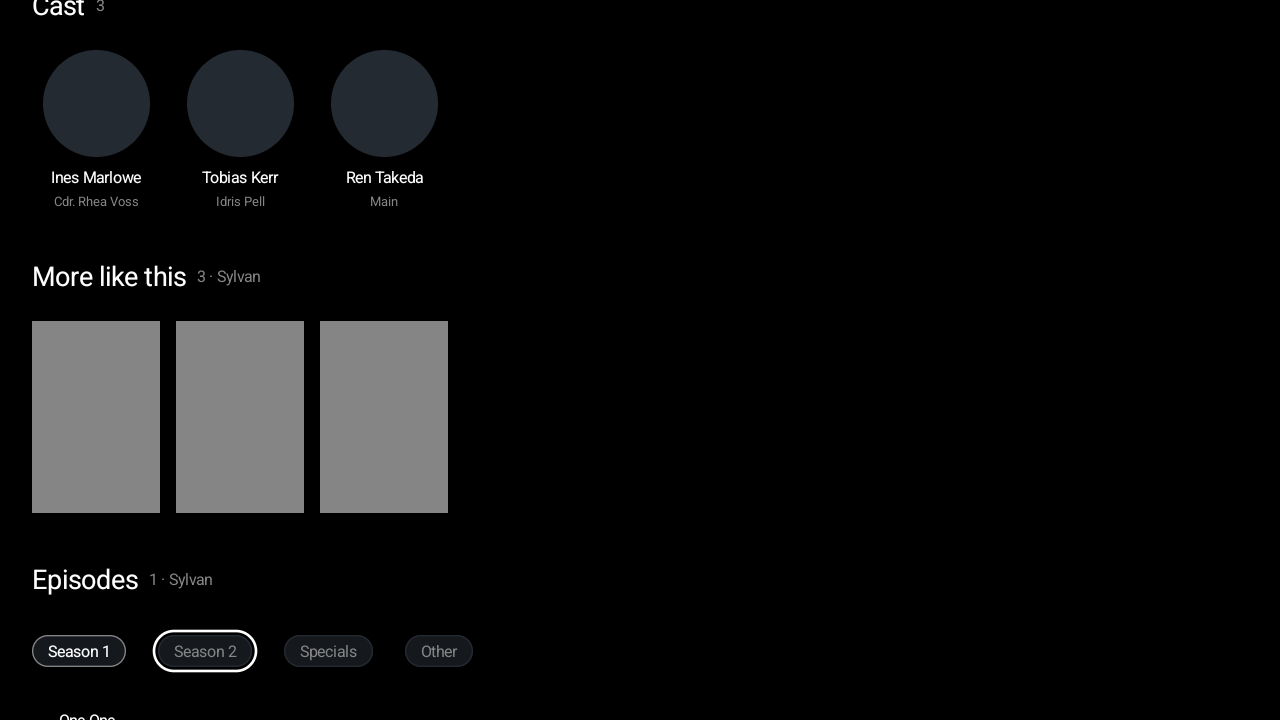
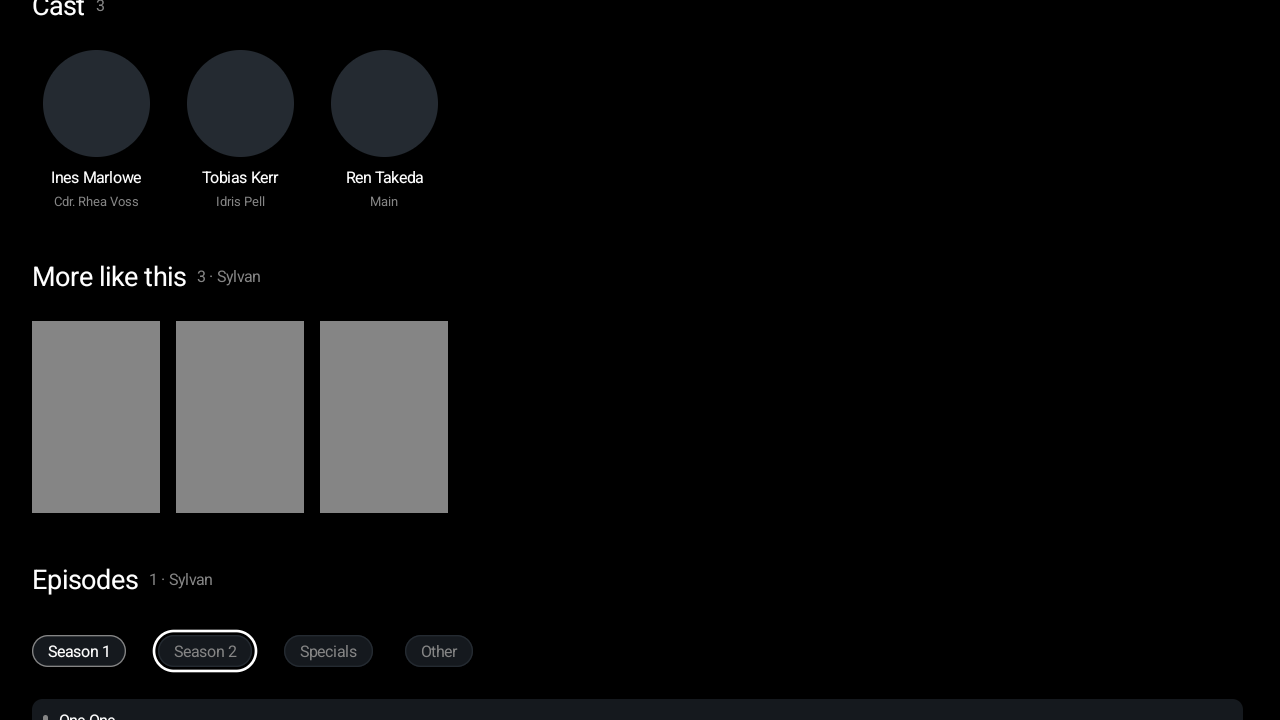
KMP-38 2b review: the page opens on the season the primary plays
The reviewer's should-fix on #244. The chosen season chip is now a nullable index:
null until the viewer picks one. While it is null the page opens on the group holding
the episode the primary action plays (Resume at S3E5 opens Season 3 with that row
marked), otherwise on the first group. shownSeasonIndex resolves and clamps it on the
screen, keeping the empty-list guard that films need.

- jvm: five tests for the opening rule, and the empty-range regression now calls it.
- Device: aResumeInSeasonTwoOpensOnSeasonTwoWithItsRowMarked fails on 9a837e7fe's
  screen ("Down never reached Two One ... stopped on One One") and passes with this.
- SeasonGroups declares season 1's episode first, so its tests still open on Season 1.
  detail-season-chips is re-recorded: the only change is the marked "One One" row,
  read from the diff.

Changed region(s): [[0.0, 0.9472, 0.9688, 1.0]]

diff --git a/feature/detail/src/commonMain/kotlin/com/lagradost/cloudstream4/feature/detail/DetailMvi.kt b/feature/detail/src/commonMain/kotlin/com/lagradost/cloudstream4/feature/detail/DetailMvi.kt
@@ -15,7 +15,7 @@ import androidx.compose.runtime.Immutable
 @Immutable
 data class DetailReturn(val target: DetailFocus, val ready: Boolean = false)
 
-/** The first of board 7i's season chips, which is what a page opens on. */
+/** The first of board 7i's season chips: what a page opens on when the primary action names no episode in a group. */
 internal const val FIRST_SEASON_GROUP = 0
 
 /** The stops the page can send focus back to. Entry focus is always [Primary]: boards 7a and 7b. */
@@ -41,12 +41,13 @@ enum class DetailFocus {
  *   character. The only press action a cast item has, because no provider gives an actor an id to
  *   open a person page with.
  * @param returnTo set when the page opens something above it, and cleared once focus is back.
- * @param selectedSeason which of board 7i's season chips is chosen, as an **index** into
- *   `seasonGroups()`. An index rather than a season number because the chips include one group whose
- *   season is `null` — the episodes a provider gave no season — so a nullable number could not tell
- *   "Other is chosen" from "nothing is chosen". The groups are derived from one title's own episode
- *   list and this state belongs to one title, so the index is stable for as long as it is read; the
- *   screen still clamps it, because a re-read after `Reappeared` can return a shorter list.
+ * @param selectedSeason which of board 7i's season chips the viewer **chose**, as an **index** into
+ *   `seasonGroups()`, or null while they have chosen none. An index rather than a season number because
+ *   the chips include one group whose season is `null` — the episodes a provider gave no season — so a
+ *   nullable number could not tell "Other is chosen" from "nothing is chosen"; the nullable index can.
+ *   While it is null the screen opens on the group holding the episode the primary action plays, so
+ *   Resume at S3E5 opens Season 3 with that row marked (`shownSeasonIndex`). The screen resolves and
+ *   clamps it, because only it derives the groups and a re-read after `Reappeared` can return fewer.
  */
 @Immutable
 data class DetailState(
@@ -57,7 +58,7 @@ data class DetailState(
     val watchStatusPicking: Boolean = false,
     val swappedRoles: Set<Int> = emptySet(),
     val returnTo: DetailReturn? = null,
-    val selectedSeason: Int = FIRST_SEASON_GROUP,
+    val selectedSeason: Int? = null,
 ) {
     /** The title, where one is loaded. */
     val detail: TitleDetail? get() = (content as? DetailLoad.Loaded)?.value

diff --git a/feature/detail/src/jvmTest/kotlin/com/lagradost/cloudstream4/feature/detail/DetailSeasonGroupsTest.kt b/feature/detail/src/jvmTest/kotlin/com/lagradost/cloudstream4/feature/detail/DetailSeasonGroupsTest.kt
@@ -79,6 +79,9 @@ class DetailSeasonGroupsTest {
         assertEquals(emptyList(), groups)
         assertEquals(-1, groups.lastIndex)
         assertFalse(groups.chipsVisible())
+        // The guard now lives in `shownSeasonIndex`, so it is pinned by calling it, chosen or not.
+        assertEquals(FIRST_SEASON_GROUP, groups.shownSeasonIndex(chosen = null, primaryData = "movie"))
+        assertEquals(FIRST_SEASON_GROUP, groups.shownSeasonIndex(chosen = 3, primaryData = null))
     }
 
     @Test
@@ -96,5 +99,39 @@ class DetailSeasonGroupsTest {
         val groups = episodes.seasonGroups()
         assertEquals(2, groups.size)
         assertEquals(1, groups.count { it.season != null })
+    }
+
+    // ---- which chip a page shows: the reviewer's should-fix on #244 ----
+
+    private val threeSeasons = listOf(episode(1, 1), episode(2, 1), episode(2, 2), episode(3, 5)).seasonGroups()
+
+    @Test
+    fun `with nothing chosen, the page opens on the season holding what the primary plays`() {
+        // Resume at S3E5 opens Season 3, not Season 1.
+        assertEquals(2, threeSeasons.shownSeasonIndex(chosen = null, primaryData = "s3-e5"))
+        assertEquals(1, threeSeasons.shownSeasonIndex(chosen = null, primaryData = "s2-e2"))
+    }
+
+    @Test
+    fun `with nothing chosen and nothing in the list to play, the page opens on the first season`() {
+        assertEquals(FIRST_SEASON_GROUP, threeSeasons.shownSeasonIndex(chosen = null, primaryData = null))
+        assertEquals(FIRST_SEASON_GROUP, threeSeasons.shownSeasonIndex(chosen = null, primaryData = "trailer"))
+    }
+
+    @Test
+    fun `a chosen chip wins over the primary's season`() {
+        assertEquals(0, threeSeasons.shownSeasonIndex(chosen = 0, primaryData = "s3-e5"))
+    }
+
+    @Test
+    fun `a chosen chip past the groups there are is clamped to the last`() {
+        // A re-read after `Reappeared` can return fewer groups than the chip last chosen.
+        assertEquals(2, threeSeasons.shownSeasonIndex(chosen = 7, primaryData = null))
+    }
+
+    @Test
+    fun `the primary can open the Other group, which is what a null-season episode needs`() {
+        val groups = listOf(episode(1, 1), episode(null, 1)).seasonGroups()
+        assertEquals(1, groups.shownSeasonIndex(chosen = null, primaryData = "snull-e1"))
     }
 }

diff --git a/feature/detail/src/commonMain/kotlin/com/lagradost/cloudstream4/feature/detail/tv/DetailScreenTv.kt b/feature/detail/src/commonMain/kotlin/com/lagradost/cloudstream4/feature/detail/tv/DetailScreenTv.kt
@@ -74,7 +74,6 @@ import com.lagradost.cloudstream4.feature.detail.DetailFocus
 import com.lagradost.cloudstream4.feature.detail.DetailLoad
 import com.lagradost.cloudstream4.feature.detail.DetailSeasonGroup
 import com.lagradost.cloudstream4.feature.detail.DetailState
-import com.lagradost.cloudstream4.feature.detail.FIRST_SEASON_GROUP
 import com.lagradost.cloudstream4.feature.detail.META_SEPARATOR
 import com.lagradost.cloudstream4.feature.detail.SPECIALS_SEASON
 import com.lagradost.cloudstream4.feature.detail.StreamLink
@@ -85,6 +84,7 @@ import com.lagradost.cloudstream4.feature.detail.episodeSubtitle
 import com.lagradost.cloudstream4.feature.detail.metaRun
 import com.lagradost.cloudstream4.feature.detail.resumeCaption
 import com.lagradost.cloudstream4.feature.detail.seasonGroups
+import com.lagradost.cloudstream4.feature.detail.shownSeasonIndex
 import com.lagradost.cloudstream4.feature.detail.toLinksUiState
 import com.lagradost.cloudstream4.feature.detail.toPageUiState
 import com.lagradost.cloudstream4.feature.detail.typeLabel
@@ -239,11 +239,9 @@ private fun TitlePage(
     // the viewer last chose, and only this side knows the groups.
     val seasons = remember(detail.episodes) { detail.episodes.seasonGroups() }
     val seasonChips = seasons.chipsVisible()
-    // `seasons` is empty for a film and for a series whose provider returned no episodes, and
-    // `coerceIn(0, -1)` throws on an empty range — which crashed every film's page until a device
-    // run caught it. There is no chip to choose when there is no group.
-    val shownSeason = if (seasons.isEmpty()) FIRST_SEASON_GROUP
-    else state.selectedSeason.coerceIn(FIRST_SEASON_GROUP, seasons.lastIndex)
+    // The chip the viewer chose, else the season holding what the primary plays, else the first; clamped,
+    // and safe on a film's empty list. See `shownSeasonIndex`.
+    val shownSeason = seasons.shownSeasonIndex(state.selectedSeason, detail.primaryData)
     val shownEpisodes = seasons.getOrNull(shownSeason)?.episodes ?: detail.episodes
     val selectedEpisode = selectedEpisodeIndex(shownEpisodes, detail.primaryData)
     // Set once the jump has landed, and cleared when the first episode row has taken focus. Hoisted

diff --git a/feature/detail/src/androidDeviceTest/kotlin/com/lagradost/cloudstream4/feature/detail/tv/DetailTvFixtures.kt b/feature/detail/src/androidDeviceTest/kotlin/com/lagradost/cloudstream4/feature/detail/tv/DetailTvFixtures.kt
@@ -235,20 +235,37 @@ internal object DetailFixtures {
      * season, and episodes the provider never gave a season.
      *
      * Named per group so a filtered list is identifiable by text alone, and deliberately **not** in
-     * chip order — season 2 is declared before season 1 and Specials before both — so the ordering
-     * the chips draw is the code's doing and not the fixture's.
+     * chip order — Specials is declared before season 2, and the unnumbered episode before both — so
+     * the ordering the chips draw is the code's doing and not the fixture's.
+     *
+     * **Season 1's episode is declared first**, because with no resume the primary plays the first
+     * episode and the page opens on the season holding it (`shownSeasonIndex`, #244's review). So this
+     * page opens on Season 1 with "One One" marked, as every chip test here expects.
      */
     val SeasonGroups = Show.copy(
         episodes = listOf(
+            DetailEpisode("One One", "s1e0", 1, 1, EPISODE_MINUTES),
+            DetailEpisode("Unnumbered One", "x0", null, null, EPISODE_MINUTES),
             DetailEpisode("Specials One", "sp0", SPECIALS_SEASON_FIXTURE, 1, EPISODE_MINUTES),
             DetailEpisode("Two One", "s2e0", 2, 1, EPISODE_MINUTES),
             DetailEpisode("Two Two", "s2e1", 2, 2, EPISODE_MINUTES),
-            DetailEpisode("One One", "s1e0", 1, 1, EPISODE_MINUTES),
-            DetailEpisode("Unnumbered One", "x0", null, null, EPISODE_MINUTES),
         ),
         seasons = emptyList(),
         resume = null,
         playData = null,
+    )
+
+    /**
+     * [SeasonGroups] with a resume partway through season 2's second episode. Nothing has been chosen, so
+     * the page must open on Season 2 with "Two Two" marked, not on the first chip (#244's review).
+     */
+    val ResumeInSeasonTwo = SeasonGroups.copy(
+        resume = DetailResume(
+            "s2e1",
+            positionMs = 1_000_000L,
+            durationMs = 2_620_000L,
+            episode = SeasonGroups.episodes.single { it.data == "s2e1" },
+        ),
     )
 
     /** One season only, so 7i draws no chip row at all: a lone chip filters nothing. */

diff --git a/feature/detail/src/androidDeviceTest/kotlin/com/lagradost/cloudstream4/feature/detail/tv/DetailScreenTvDeviceTest.kt b/feature/detail/src/androidDeviceTest/kotlin/com/lagradost/cloudstream4/feature/detail/tv/DetailScreenTvDeviceTest.kt
@@ -678,6 +678,31 @@ class DetailScreenTvDeviceTest {
     }
 
     /**
+     * With nothing chosen, the page opens on the season holding what the primary plays: Resume in
+     * season 2 opens Season 2 with that episode's row marked, not the first chip (#244's review).
+     * Focus only walks DOWN to the list, because a lazy list composes no row it has not scrolled to;
+     * nothing is pressed on a chip, so what is asserted is the page's opening state, not a choice.
+     */
+    @Test
+    fun aResumeInSeasonTwoOpensOnSeasonTwoWithItsRowMarked() {
+        show(DetailFixtures.ResumeInSeasonTwo)
+        awaitFocus(RESUME)
+
+        // The first row of the season shown. With the old opening chip this is "One One", so the walk
+        // itself fails there: DOWN never reaches "Two One".
+        assertEquals("Two One", pressUntil(Dpad.Down, "Two One"))
+        rule.waitUntil(WAIT_MS) { rule.onAllNodesWithText("Two Two").fetchSemanticsNodes().isNotEmpty() }
+        rule.onNodeWithText("Two One").assertExists()
+        assertNoText("One One")
+        assertNoText("Specials One")
+        assertNoText("Unnumbered One")
+        rule.onNodeWithText("Two Two").assertIsSelected()
+        rule.onNodeWithText("Two One").assertIsNotSelected()
+        rule.onNodeWithText("$SEASON 2").assertIsSelected()
+        rule.onNodeWithText("$SEASON 1").assertIsNotSelected()
+    }
+
+    /**
      * One season draws no chip row. A lone chip filters nothing and would be a focus stop that does
      * nothing; 7i sends UP from the chips to the action row, so with no chips UP from the first
      * episode lands on exactly the same place.

diff --git a/feature/detail/src/commonMain/kotlin/com/lagradost/cloudstream4/feature/detail/DetailSeasonGroups.kt b/feature/detail/src/commonMain/kotlin/com/lagradost/cloudstream4/feature/detail/DetailSeasonGroups.kt
@@ -58,3 +58,24 @@ internal fun List<DetailEpisode>.seasonGroups(): List<DetailSeasonGroup> {
 internal fun List<DetailSeasonGroup>.chipsVisible(): Boolean = size >= MIN_GROUPS_FOR_CHIPS
 
 private const val MIN_GROUPS_FOR_CHIPS = 2
+
+/**
+ * The index of the chip a page shows.
+ *
+ * - The one the viewer [chosen], when they have chosen one.
+ * - Otherwise the group holding the episode the primary action plays, [primaryData], so the page opens where Resume
+ *   or Play points: Resume at S3E5 opens Season 3, and that row is the one marked.
+ * - Otherwise, when the primary plays nothing in the list, the first group.
+ *
+ * Always clamped to the groups there are, because a re-read after `Reappeared` can return fewer than the chip last
+ * chosen. With no groups at all — a film, or a series whose provider returned no episodes — it is
+ * [FIRST_SEASON_GROUP] without clamping, because `coerceIn(0, -1)` throws on the empty range, which once crashed
+ * every film's page.
+ */
+internal fun List<DetailSeasonGroup>.shownSeasonIndex(chosen: Int?, primaryData: String?): Int {
+    if (isEmpty()) return FIRST_SEASON_GROUP
+    val opening = primaryData
+        ?.let { data -> indexOfFirst { group -> group.episodes.any { it.data == data } } }
+        ?.takeIf { it >= FIRST_SEASON_GROUP }
+    return (chosen ?: opening ?: FIRST_SEASON_GROUP).coerceIn(FIRST_SEASON_GROUP, lastIndex)
+}

diff --git a/docs/tasks/kmp.md b/docs/tasks/kmp.md
@@ -3968,6 +3968,17 @@ reaches (`KMP-63` holds the two readouts it cannot supply).
 chips built from it would hide exactly the episodes the Other chip exists to show. The owner's ruling
 is that no episode is ever hidden, which rules the `seasons` list out as the source.
 
+**Which chip a page opens on** (#244's review). The chosen chip is a **nullable** index: null until
+the viewer picks one. While it is null, the page opens on the group holding the episode the primary
+action plays, so Resume at S3E5 opens Season 3 with that row marked; otherwise it opens on the first
+group. `shownSeasonIndex` resolves and clamps it on the screen, which keeps the empty-list guard.
+- `aResumeInSeasonTwoOpensOnSeasonTwoWithItsRowMarked` holds it on the device. It fails on #244's earlier
+  head `9a837e7fe`, which opened on Season 1.
+- One consequence for a series with no resume: the primary plays the provider's first episode, so the
+  page opens on that episode's group. When a provider lists specials first, that group is Specials.
+  `SeasonGroups` now declares season 1's episode first, so its tests and `detail-season-chips` still
+  open on Season 1. That reference changed only by the marked "One One" row.
+
 **Still open on 7i:** Season and Episodes leave the action row. Both still do the one thing the chips
 do not — each calls `onScrollToEpisodes` — so removing them is a focus-order and reference change of
 its own, not a line in the chip PR.
